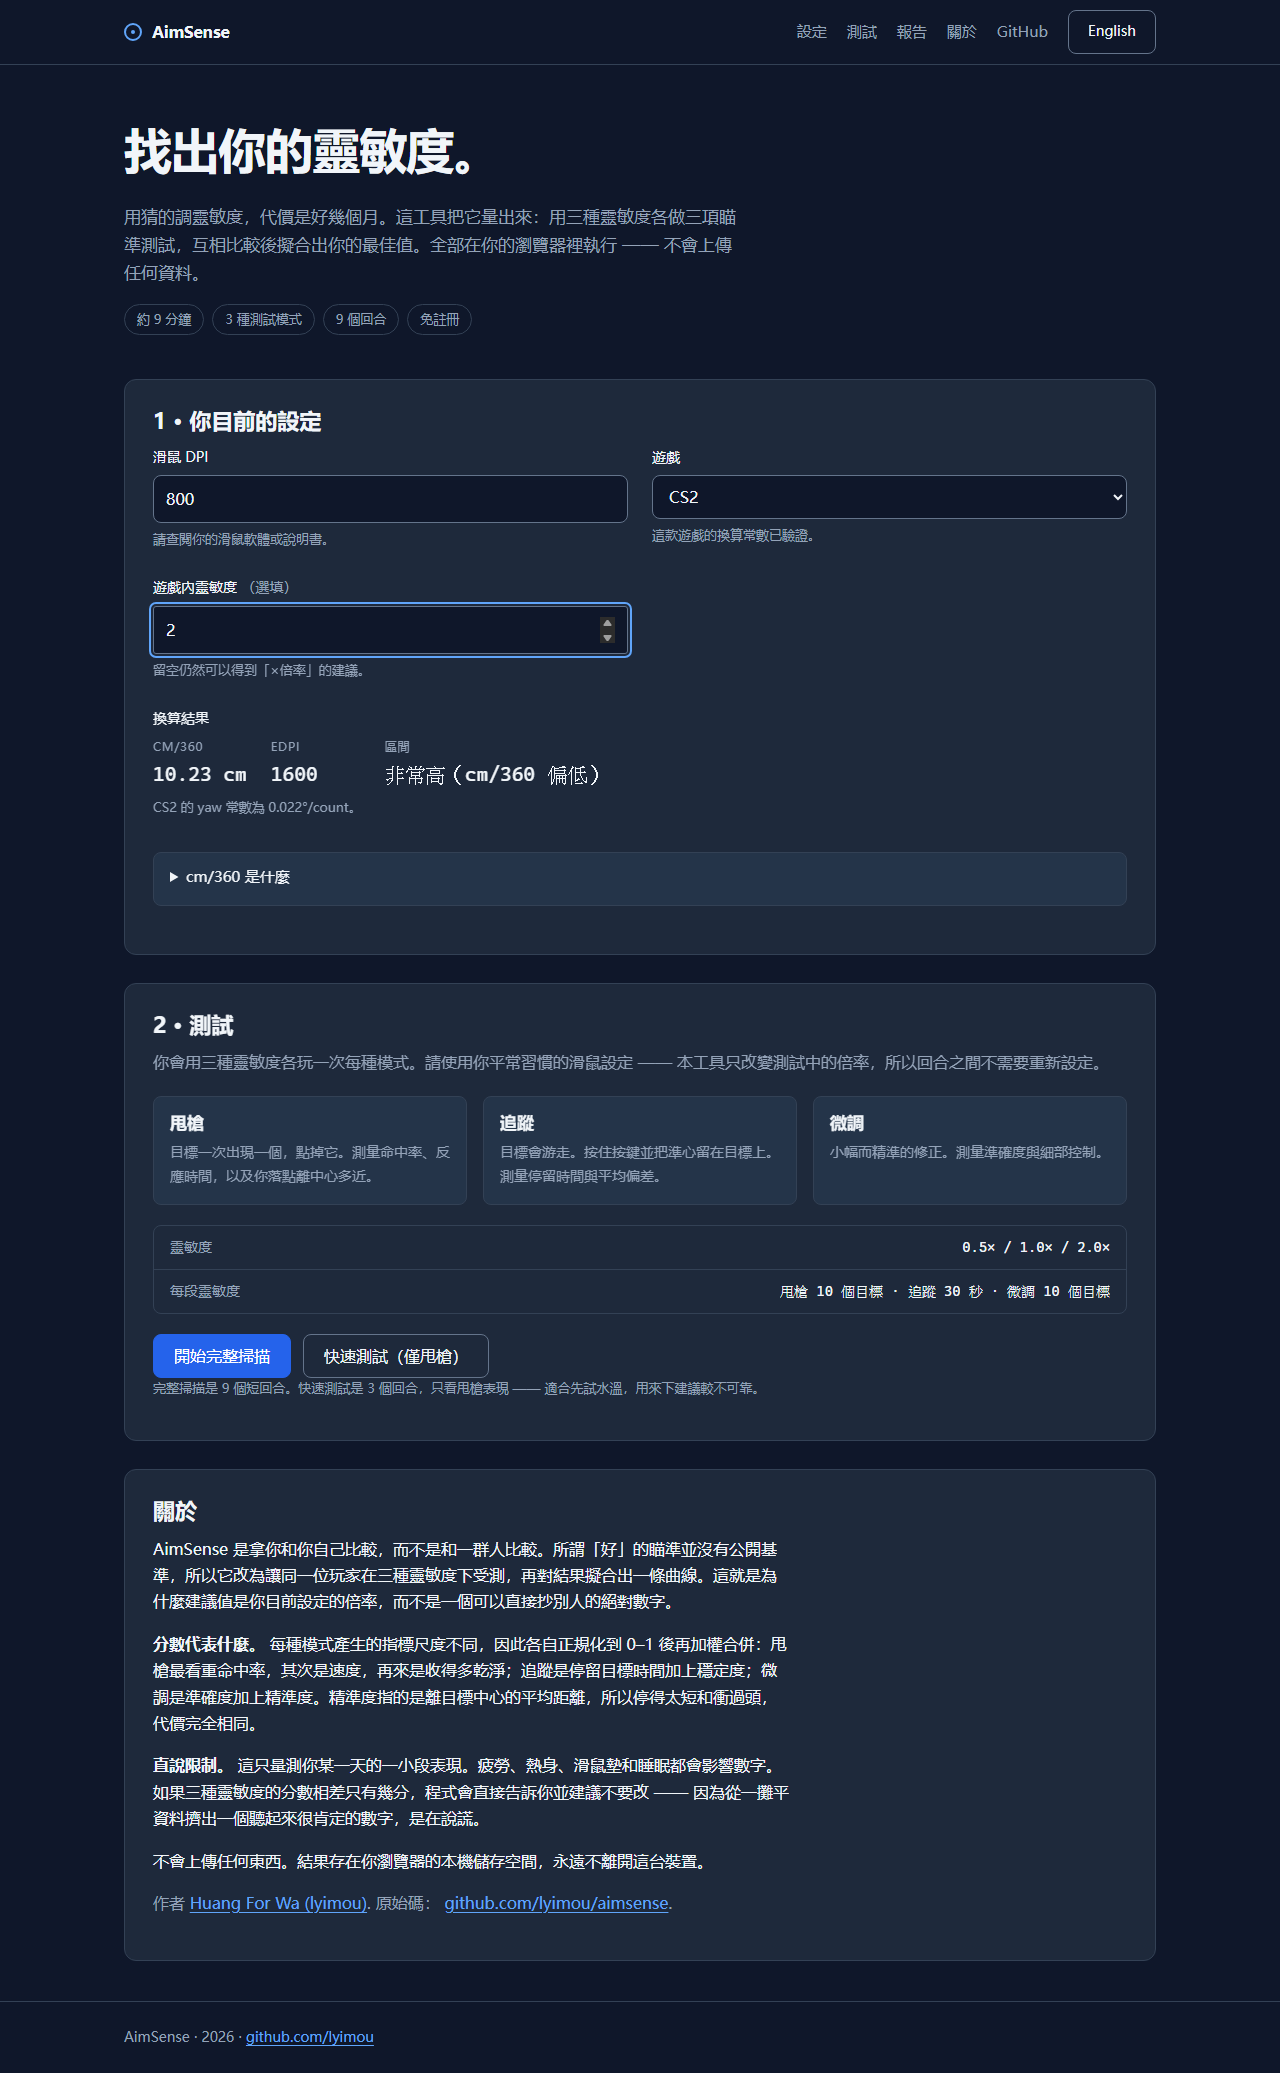
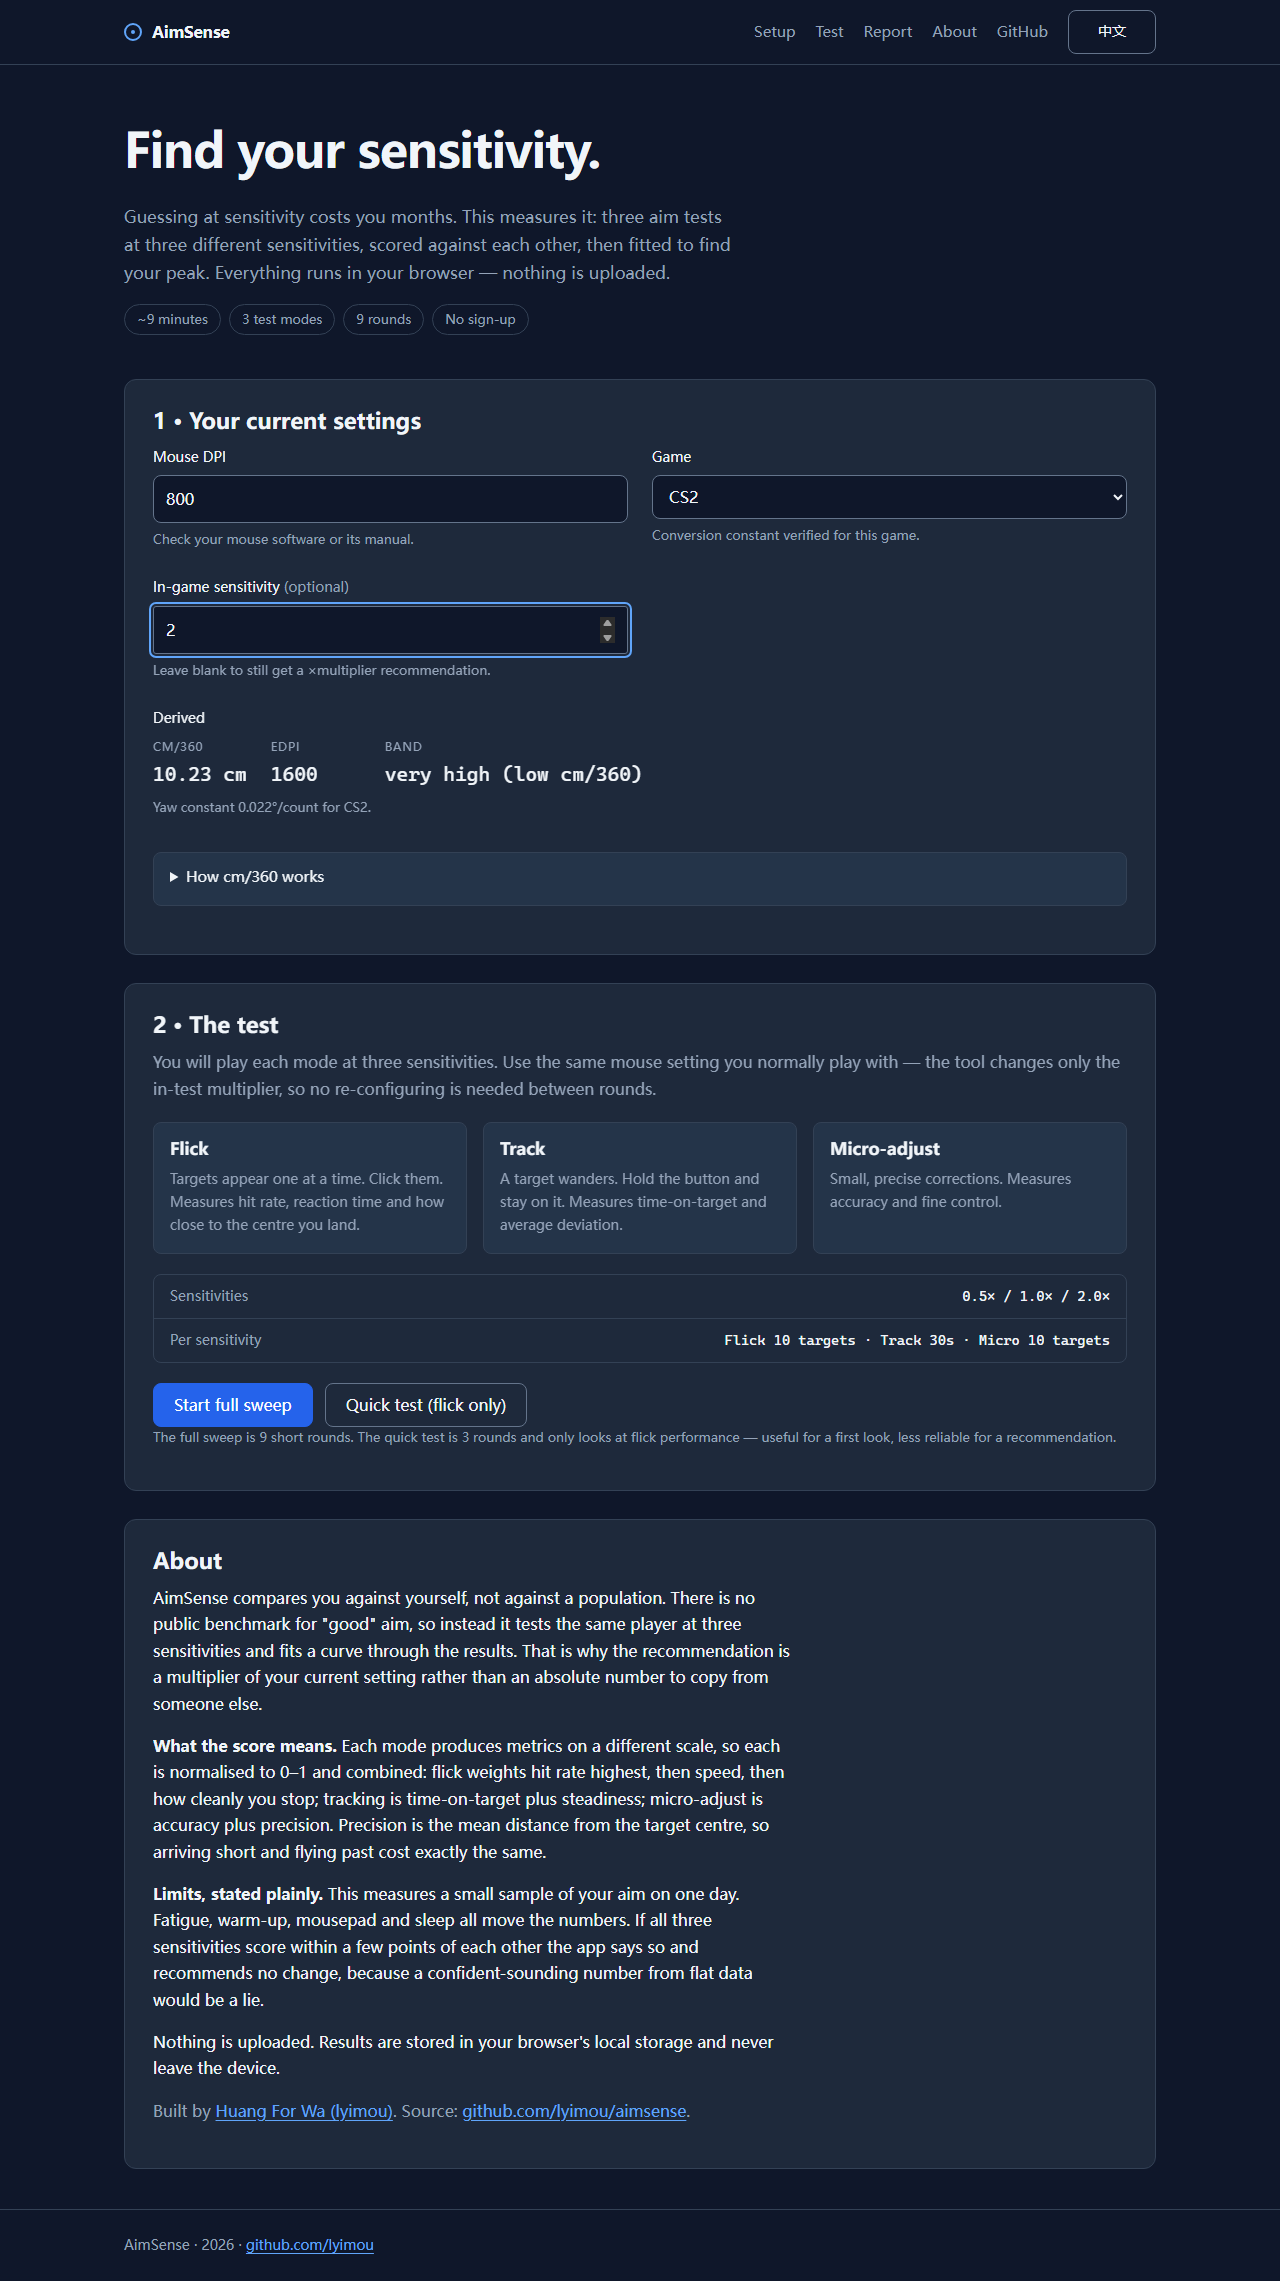
fix: Node 20 compatibility, deterministic screenshots, test both Node versions
CI failed on 'Run tests' while the identical suite passed locally. Cause: Node
24 added a global 'navigator'; Node 20 has none (it landed in v21). i18n.js read
navigator.language at module load, so the import threw a ReferenceError and took
down every module that imports it - including engine.js, which the new metric
tests load. Reproduced by fetching the real Node 20 binary and running the suite
under it rather than guessing.

- i18n.js guards both 'navigator' and 'location'. It was already guarded for
  'document'; that was the same class of assumption, just one that happened not
  to fire.
- The CI test job now runs a Node 20 / 22 matrix, so a runtime-specific break
  cannot pass CI and then be invisible locally again.
- test-i18n.mjs loads the module with navigator and location deleted, so this
  exact regression is caught without needing two Node versions installed.

Also: capture-screenshots.mjs never set a locale, so it inherited the system
language and captured Chinese screenshots of an app whose default is English.
Non-deterministic artefacts in a repo. It now pins the locale, asserts the
document language took effect, and captures both languages
(report-1280-dark-en.png, report-1280-dark-zh.png). The injected session also
reported NaN accuracy for track mode, which is what the engine now produces.

diff --git a/src/js/i18n.js b/src/js/i18n.js
@@ -38,6 +38,9 @@ function writeStored(locale) {
 }
 
 function fromUrl() {
+  // `location` does not exist outside a browser and did not exist in Node
+  // until v21 either, so this cannot assume it.
+  if (typeof location === 'undefined') return null;
   try {
     const v = new URLSearchParams(location.search).get('lang');
     if (!v) return null;
@@ -53,6 +56,13 @@ function fromUrl() {
 }
 
 function fromBrowser() {
+  /*
+   * `navigator` is NOT guaranteed here. Node 20 has no global navigator at all
+   * (it was added in v21), so reading it unguarded threw a ReferenceError at
+   * module load — which took down every module that imports this one, including
+   * the engine. CI ran Node 20 and the engine's tests died on import.
+   */
+  if (typeof navigator === 'undefined') return null;
   const list = navigator.languages?.length ? navigator.languages : [navigator.language];
   for (const tag of list) {
     if (!tag) continue;
